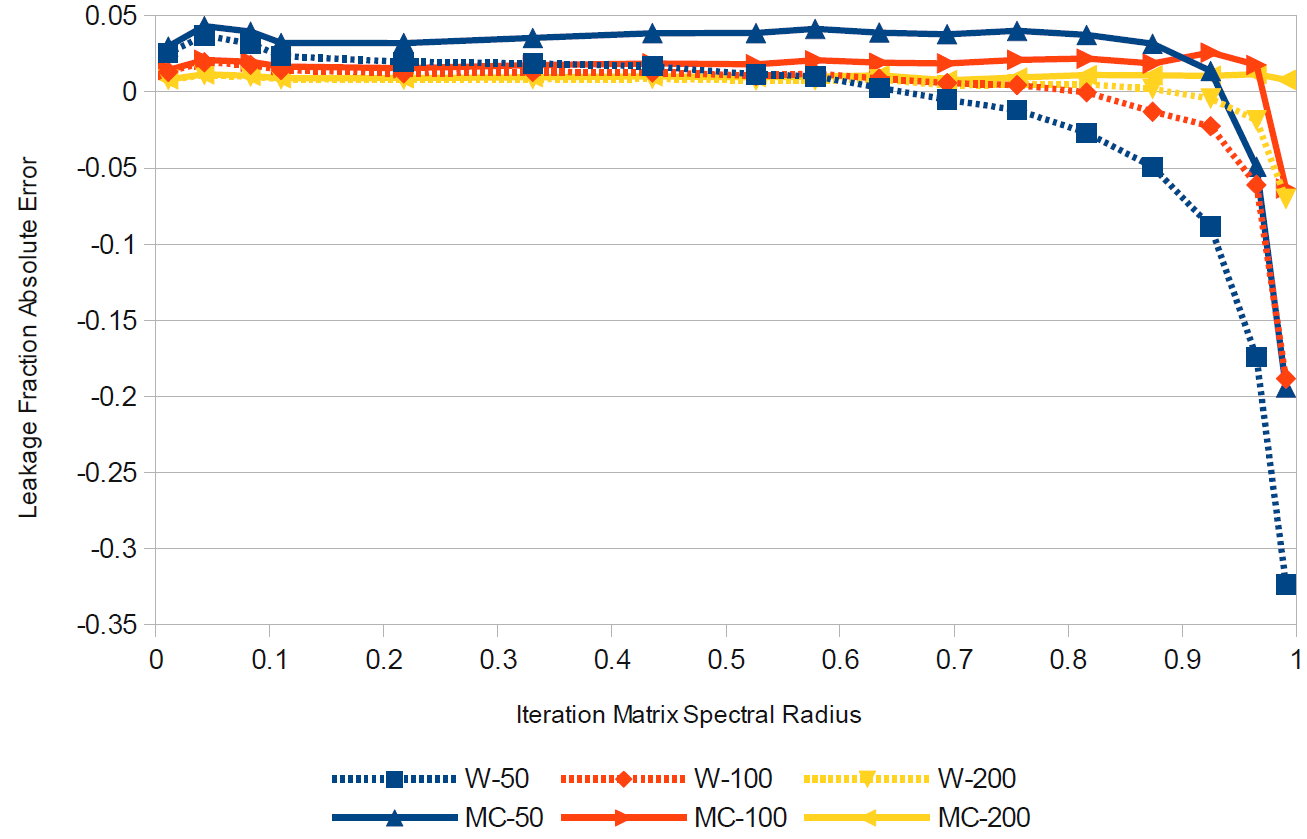
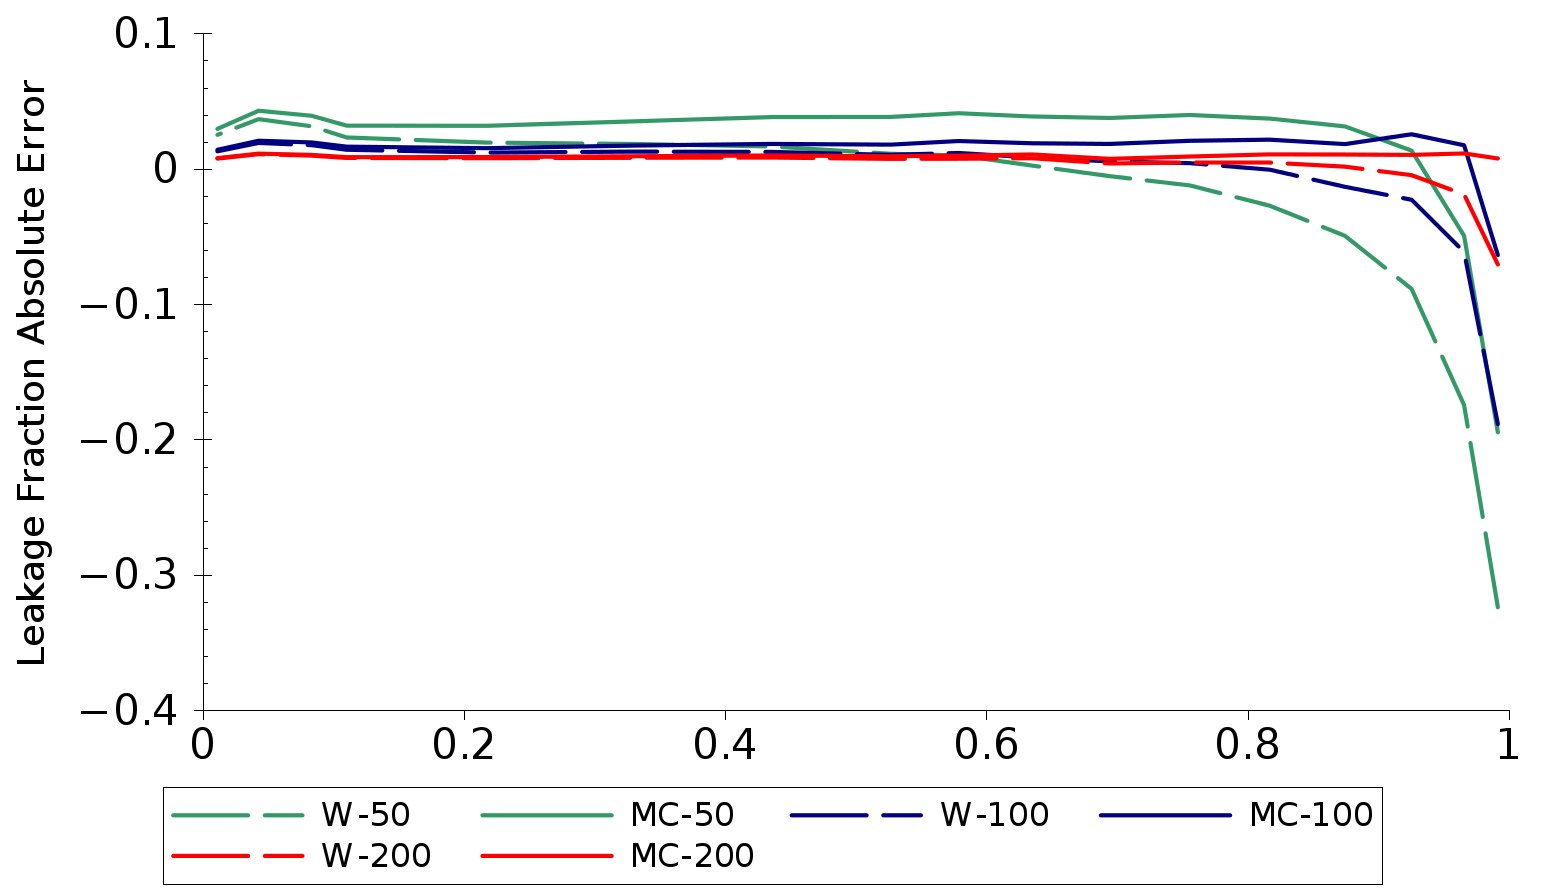
updating figures and adding gnumeric data file

diff --git a/doc/mandc2013/theory_paper/slattery_wilson_evans.tex b/doc/mandc2013/theory_paper/slattery_wilson_evans.tex
@@ -624,12 +624,12 @@ they define a leakage fraction, $\Lambda$, as:
           {total\ of\ \#\ of\ particles\ starting\ in\ local\ domain}\:.
           \label{eq:leakage_fraction}
 \end{equation}
-For their studies, they assumed that the value of $\Lambda$ was
-dependent on the total cross section of the system via the Wigner
-rational approximation. Outlined more thoroughly by Hwang's chapter in
-\cite{azmy_nuclear_2010}, we will use both the Wigner rational
-approximation and the mean chord approximation as a means to estimate
-the leakage fraction.
+For their studies, Siegel and colleagues assumed that the value of
+$\Lambda$ was dependent on the total cross section of the system via
+the Wigner rational approximation. Outlined more thoroughly by Hwang's
+chapter in \cite{azmy_nuclear_2010}, we will use both the Wigner
+rational approximation and the mean chord approximation as a means to
+estimate the leakage fraction.
 
 In the case of domain decomposed linear operator equations, we can use
 diffusion theory to estimate the optical thickness of a domain in the
@@ -848,16 +848,16 @@ matrix spectral radius.
     \begin{center}
       \includegraphics[width=5in,clip]{leakage_variation.png}
     \end{center}
-    \caption{\textbf{Measured and analytic domain leakage as a function
-        of the iteration matrix spectral radius.} \textit{To test the
-        behavior with respect to domain size, $n_i=50$, $n_i=100$,and
-        $n_i=200$ were used. The red data was computed numerically by a
-        domain-decomposed adjoint Neumann-Ulam implementation, the black
-        fine-dashed data was generated by
+    \caption{\textbf{Measured and analytic domain leakage as a
+        function of the iteration matrix spectral radius.} \textit{To
+        test the behavior with respect to domain size, $n_i=50$,
+        $n_i=100$,and $n_i=200$ were used. The red data was computed
+        numerically by a domain-decomposed adjoint Neumann-Ulam
+        implementation, the black dashed data was generated by
         Eq~(\ref{eq:mean_chord_domain_leakage}) using the mean-chord
-        approximation, and the dashed-dotted black data was generated by
-        Eq~(\ref{eq:wigner_domain_leakage}) using the Wigner rational
-        approximation.}}
+        approximation, and the dashed-dotted black data was generated
+        by Eq~(\ref{eq:wigner_domain_leakage}) using the Wigner
+        rational approximation.}}
     \label{fig:measured_leakage}
   \end{spacing}
 \end{figure}
@@ -876,7 +876,7 @@ tested.
     \caption{\textbf{Measured and analytic domain leakage absolute error
         as a function of the iteration matrix spectral radius.}
       \textit{To test the behavior with respect to domain size, $n_i=50$
-        (blue), $n_i=100$ (red), and $n_i=200$ (yellow) were used. The
+        (green), $n_i=100$ (blue), and $n_i=200$ (red) were used. The
         dashed lines represent the error using the Wigner rational
         approximation while the solid lines represent the error using
         the mean-chord approximation.}}
